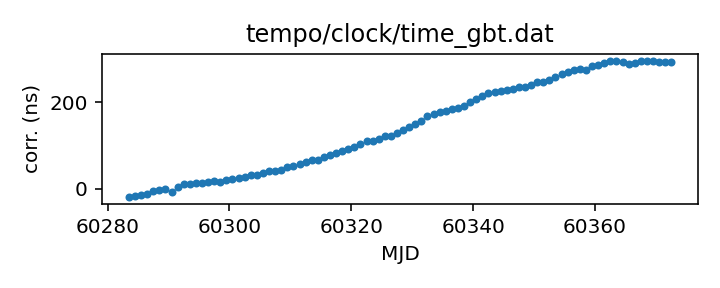
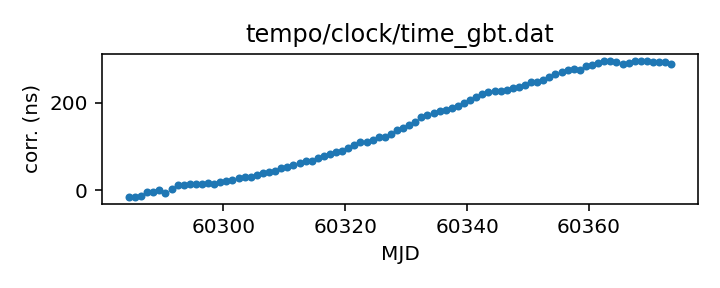
Routine gh-pages update from Github action Tue Mar  5 20:30:21 UTC 2024

diff --git a/status.md b/status.md
@@ -13,17 +13,17 @@ name of each clock file links to a page with more details.
 
 | Name | File | Corrections start | Corrections end | Last check date | Last check result 
 |:--- |:--- | --- | --- | --- |:--- 
-| [GPS to UTC](T2runtime/clock/gps2utc.clk.html) | `T2runtime/clock/gps2utc.clk` | 1993-01-01 MJD 48988.0 | 2024-01-30 MJD 60339.0 | 2024-03-04 | Unchanged 
-| [GPS to UTC (Combined Clock)](T2runtime/clock/gps2utc_cc.clk.html) | `T2runtime/clock/gps2utc_cc.clk` | 1993-01-01 MJD 48988.0 | 2024-01-30 MJD 60339.0 | 2024-03-04 | Unchanged 
-| [GPS to UTC (Corrected)](T2runtime/clock/gps2utc_c0p.clk.html) | `T2runtime/clock/gps2utc_c0p.clk` | 2010-12-29 MJD 55559.0 | 2024-01-30 MJD 60339.0 | 2024-03-04 | Unchanged 
-| [GBT](tempo/clock/time_gbt.dat.html) | `tempo/clock/time_gbt.dat` | 2000-12-31 MJD 51909.5 | 2024-03-03 MJD 60372.5 | 2024-03-04 | Updated 
-| [GBT (TEMPO2 converted from TEMPO)](T2runtime/clock/gbt2gps.clk.html) | `T2runtime/clock/gbt2gps.clk` | 2000-12-31 MJD 51909.5 | 2023-03-20 MJD 60023.5 | 2024-03-04 | **Validation failed** 
+| [GPS to UTC](T2runtime/clock/gps2utc.clk.html) | `T2runtime/clock/gps2utc.clk` | 1993-01-01 MJD 48988.0 | 2024-01-30 MJD 60339.0 | 2024-03-05 | Unchanged 
+| [GPS to UTC (Combined Clock)](T2runtime/clock/gps2utc_cc.clk.html) | `T2runtime/clock/gps2utc_cc.clk` | 1993-01-01 MJD 48988.0 | 2024-01-30 MJD 60339.0 | 2024-03-05 | Unchanged 
+| [GPS to UTC (Corrected)](T2runtime/clock/gps2utc_c0p.clk.html) | `T2runtime/clock/gps2utc_c0p.clk` | 2010-12-29 MJD 55559.0 | 2024-01-30 MJD 60339.0 | 2024-03-05 | Unchanged 
+| [GBT](tempo/clock/time_gbt.dat.html) | `tempo/clock/time_gbt.dat` | 2000-12-31 MJD 51909.5 | 2024-03-04 MJD 60373.5 | 2024-03-05 | Updated 
+| [GBT (TEMPO2 converted from TEMPO)](T2runtime/clock/gbt2gps.clk.html) | `T2runtime/clock/gbt2gps.clk` | 2000-12-31 MJD 51909.5 | 2023-03-20 MJD 60023.5 | 2024-03-05 | **Validation failed** 
 | [Jodrell Bank](T2runtime/clock/jb2gps.clk.html) | `T2runtime/clock/jb2gps.clk` | 2006-10-13 MJD 54021.4 | 2023-12-04 MJD 60282.0 | 2024-02-29 | Unchanged 
 | [Jodrell Bank Roach](T2runtime/clock/jbroach2jb.clk.html) | `T2runtime/clock/jbroach2jb.clk` | 2006-10-13 MJD 54021.4 | 2018-03-20 MJD 58197.6 | 2024-02-29 | Unchanged 
 | [Jodrell Bank DFB](T2runtime/clock/jbdfb2jb.clk.html) | `T2runtime/clock/jbdfb2jb.clk` | 2006-10-13 MJD 54021.4 | 2017-05-11 MJD 57884.0 | 2024-02-29 | Unchanged 
 | [Meerkat (observatory)](T2runtime/clock/mk2utc_observatory.clk.html) | `T2runtime/clock/mk2utc_observatory.clk` | 2019-01-01 MJD 58484.0 | 2024-01-31 MJD 60341.0 | 2024-02-29 | Unchanged 
-| [Leap seconds](tempo/clock/leap.sec.html) | `tempo/clock/leap.sec` | 1972-07-01 MJD 41499.0 | 2017-01-01 MJD 57754.0 | 2024-03-04 | Unchanged 
-| [UT1 table](tempo/clock/ut1.dat.html) | `tempo/clock/ut1.dat` | 1973-01-02 MJD 41684.0 | 2025-03-08 MJD 60742.0 | 2024-03-04 | Unchanged 
+| [Leap seconds](tempo/clock/leap.sec.html) | `tempo/clock/leap.sec` | 1972-07-01 MJD 41499.0 | 2017-01-01 MJD 57754.0 | 2024-03-05 | Unchanged 
+| [UT1 table](tempo/clock/ut1.dat.html) | `tempo/clock/ut1.dat` | 1973-01-02 MJD 41684.0 | 2025-03-08 MJD 60742.0 | 2024-03-05 | Unchanged 
 
 
 

diff --git a/T2runtime/clock/gbt2gps.clk.md b/T2runtime/clock/gbt2gps.clk.md
@@ -25,12 +25,11 @@ If questions arise about the conversion, contact Anne Archibald
 | Clock file start | 2000-12-31 MJD 51909.5 |
 | Clock file end | 2023-03-20 MJD 60023.5 |
 | Update interval (days) | 1 |
-| Last update attempt | 2024-03-04 |
+| Last update attempt | 2024-03-05 |
 | Last update result | Validation failed |
 
 Log entries from the last few update attempts:
 ```
-2024-02-24 20:29:32.866 - Validation failed: New version of T2runtime/clock/gbt2gps.clk clock corrections differ from old version where they overlap in 11 places
 2024-02-25 20:29:22.863 - Validation failed: New version of T2runtime/clock/gbt2gps.clk clock corrections differ from old version where they overlap in 11 places
 2024-02-26 20:29:28.506 - Validation failed: New version of T2runtime/clock/gbt2gps.clk clock corrections differ from old version where they overlap in 11 places
 2024-02-27 20:29:19.878 - Validation failed: New version of T2runtime/clock/gbt2gps.clk clock corrections differ from old version where they overlap in 11 places
@@ -40,6 +39,7 @@ Log entries from the last few update attempts:
 2024-03-02 20:29:41.594 - Validation failed: New version of T2runtime/clock/gbt2gps.clk clock corrections differ from old version where they overlap in 11 places
 2024-03-03 20:29:37.403 - Validation failed: New version of T2runtime/clock/gbt2gps.clk clock corrections differ from old version where they overlap in 11 places
 2024-03-04 20:29:25.938 - Validation failed: New version of T2runtime/clock/gbt2gps.clk clock corrections differ from old version where they overlap in 11 places
+2024-03-05 20:29:52.797 - Validation failed: New version of T2runtime/clock/gbt2gps.clk clock corrections differ from old version where they overlap in 11 places
 ```
 [Full log](https://raw.githubusercontent.com/ipta/pulsar-clock-corrections/main/log/T2runtime/clock/gbt2gps.clk.log)
 

diff --git a/tempo/clock/time_gbt.dat.md b/tempo/clock/time_gbt.dat.md
@@ -31,14 +31,13 @@ If questions arise, contact Ryan S. Lynch <rlynch@nrao.edu>.
 | Format | tempo |
 | Bogus last correction | False |
 | Clock file start | 2000-12-31 MJD 51909.5 |
-| Clock file end | 2024-03-03 MJD 60372.5 |
+| Clock file end | 2024-03-04 MJD 60373.5 |
 | Update interval (days) | 1 |
-| Last update attempt | 2024-03-04 |
+| Last update attempt | 2024-03-05 |
 | Last update result | Updated |
 
 Log entries from the last few update attempts:
 ```
-2024-02-24 20:29:32.812 - Updated
 2024-02-25 20:29:22.809 - Updated
 2024-02-26 20:29:28.452 - Updated
 2024-02-27 20:29:19.817 - Updated
@@ -48,6 +47,7 @@ Log entries from the last few update attempts:
 2024-03-02 20:29:41.540 - Updated
 2024-03-03 20:29:37.347 - Updated
 2024-03-04 20:29:25.887 - Updated
+2024-03-05 20:29:52.739 - Updated
 ```
 [Full log](https://raw.githubusercontent.com/ipta/pulsar-clock-corrections/main/log/tempo/clock/time_gbt.dat.log)
 

diff --git a/T2runtime/clock/gps2utc_c0p.clk.md b/T2runtime/clock/gps2utc_c0p.clk.md
@@ -30,12 +30,11 @@ about the BIPM's published corrections, contact <tai@bipm.org>.
 | Clock file start | 2010-12-29 MJD 55559.0 |
 | Clock file end | 2024-01-30 MJD 60339.0 |
 | Update interval (days) | 1 |
-| Last update attempt | 2024-03-04 |
+| Last update attempt | 2024-03-05 |
 | Last update result | Unchanged |
 
 Log entries from the last few update attempts:
 ```
-2024-02-24 20:29:31.905 - Unchanged
 2024-02-25 20:29:22.181 - Unchanged
 2024-02-26 20:29:27.863 - Unchanged
 2024-02-27 20:29:19.400 - Unchanged
@@ -45,6 +44,7 @@ Log entries from the last few update attempts:
 2024-03-02 20:29:41.114 - Unchanged
 2024-03-03 20:29:37.023 - Unchanged
 2024-03-04 20:29:25.637 - Unchanged
+2024-03-05 20:29:52.301 - Unchanged
 ```
 [Full log](https://raw.githubusercontent.com/ipta/pulsar-clock-corrections/main/log/T2runtime/clock/gps2utc_c0p.clk.log)
 

diff --git a/T2runtime/clock/gps2utc_cc.clk.md b/T2runtime/clock/gps2utc_cc.clk.md
@@ -29,12 +29,11 @@ about the BIPM's published corrections, contact <tai@bipm.org>.
 | Clock file start | 1993-01-01 MJD 48988.0 |
 | Clock file end | 2024-01-30 MJD 60339.0 |
 | Update interval (days) | 1 |
-| Last update attempt | 2024-03-04 |
+| Last update attempt | 2024-03-05 |
 | Last update result | Unchanged |
 
 Log entries from the last few update attempts:
 ```
-2024-02-24 20:29:31.896 - Unchanged
 2024-02-25 20:29:22.172 - Unchanged
 2024-02-26 20:29:27.854 - Unchanged
 2024-02-27 20:29:19.390 - Unchanged
@@ -44,6 +43,7 @@ Log entries from the last few update attempts:
 2024-03-02 20:29:41.105 - Unchanged
 2024-03-03 20:29:37.014 - Unchanged
 2024-03-04 20:29:25.627 - Unchanged
+2024-03-05 20:29:52.292 - Unchanged
 ```
 [Full log](https://raw.githubusercontent.com/ipta/pulsar-clock-corrections/main/log/T2runtime/clock/gps2utc_cc.clk.log)
 

diff --git a/T2runtime/clock/gps2utc.clk.md b/T2runtime/clock/gps2utc.clk.md
@@ -32,12 +32,11 @@ about the BIPM's published corrections, contact <tai@bipm.org>.
 | Clock file start | 1993-01-01 MJD 48988.0 |
 | Clock file end | 2024-01-30 MJD 60339.0 |
 | Update interval (days) | 1 |
-| Last update attempt | 2024-03-04 |
+| Last update attempt | 2024-03-05 |
 | Last update result | Unchanged |
 
 Log entries from the last few update attempts:
 ```
-2024-02-24 20:29:31.871 - Unchanged
 2024-02-25 20:29:22.146 - Unchanged
 2024-02-26 20:29:27.827 - Unchanged
 2024-02-27 20:29:19.364 - Unchanged
@@ -47,6 +46,7 @@ Log entries from the last few update attempts:
 2024-03-02 20:29:41.080 - Unchanged
 2024-03-03 20:29:36.989 - Unchanged
 2024-03-04 20:29:25.603 - Unchanged
+2024-03-05 20:29:52.264 - Unchanged
 ```
 [Full log](https://raw.githubusercontent.com/ipta/pulsar-clock-corrections/main/log/T2runtime/clock/gps2utc.clk.log)
 

diff --git a/tempo/clock/leap.sec.md b/tempo/clock/leap.sec.md
@@ -21,12 +21,11 @@ If there are any questions, contact Anne Archibald
 | File start | 1972-07-01 MJD 41499.0 |
 | File end | 2017-01-01 MJD 57754.0 |
 | Update interval (days) | 0 |
-| Last update attempt | 2024-03-04 |
+| Last update attempt | 2024-03-05 |
 | Last update result | Unchanged |
 
 Log entries from the last few update attempts:
 ```
-2024-02-24 20:29:32.896 - Unchanged
 2024-02-25 20:29:22.892 - Unchanged
 2024-02-26 20:29:29.291 - Unchanged
 2024-02-27 20:29:19.914 - Unchanged
@@ -36,5 +35,6 @@ Log entries from the last few update attempts:
 2024-03-02 20:29:41.624 - Unchanged
 2024-03-03 20:29:37.432 - Unchanged
 2024-03-04 20:29:26.343 - Unchanged
+2024-03-05 20:29:52.826 - Unchanged
 ```
 [Full log](https://raw.githubusercontent.com/ipta/pulsar-clock-corrections/main/log/tempo/clock/leap.sec.log)

diff --git a/tempo/clock/ut1.dat.md b/tempo/clock/ut1.dat.md
@@ -30,12 +30,11 @@ If there are any questions, contact Anne Archibald
 | File start | 1973-01-02 MJD 41684.0 |
 | File end | 2025-03-08 MJD 60742.0 |
 | Update interval (days) | 0 |
-| Last update attempt | 2024-03-04 |
+| Last update attempt | 2024-03-05 |
 | Last update result | Unchanged |
 
 Log entries from the last few update attempts:
 ```
-2024-02-24 20:29:46.302 - Unchanged
 2024-02-25 20:29:32.295 - Unchanged
 2024-02-26 20:29:39.283 - Unchanged
 2024-02-27 20:29:27.783 - Unchanged
@@ -45,5 +44,6 @@ Log entries from the last few update attempts:
 2024-03-02 20:29:49.378 - Unchanged
 2024-03-03 20:29:44.809 - Unchanged
 2024-03-04 20:29:33.969 - Unchanged
+2024-03-05 20:30:01.155 - Unchanged
 ```
 [Full log](https://raw.githubusercontent.com/ipta/pulsar-clock-corrections/main/log/tempo/clock/ut1.dat.log)
